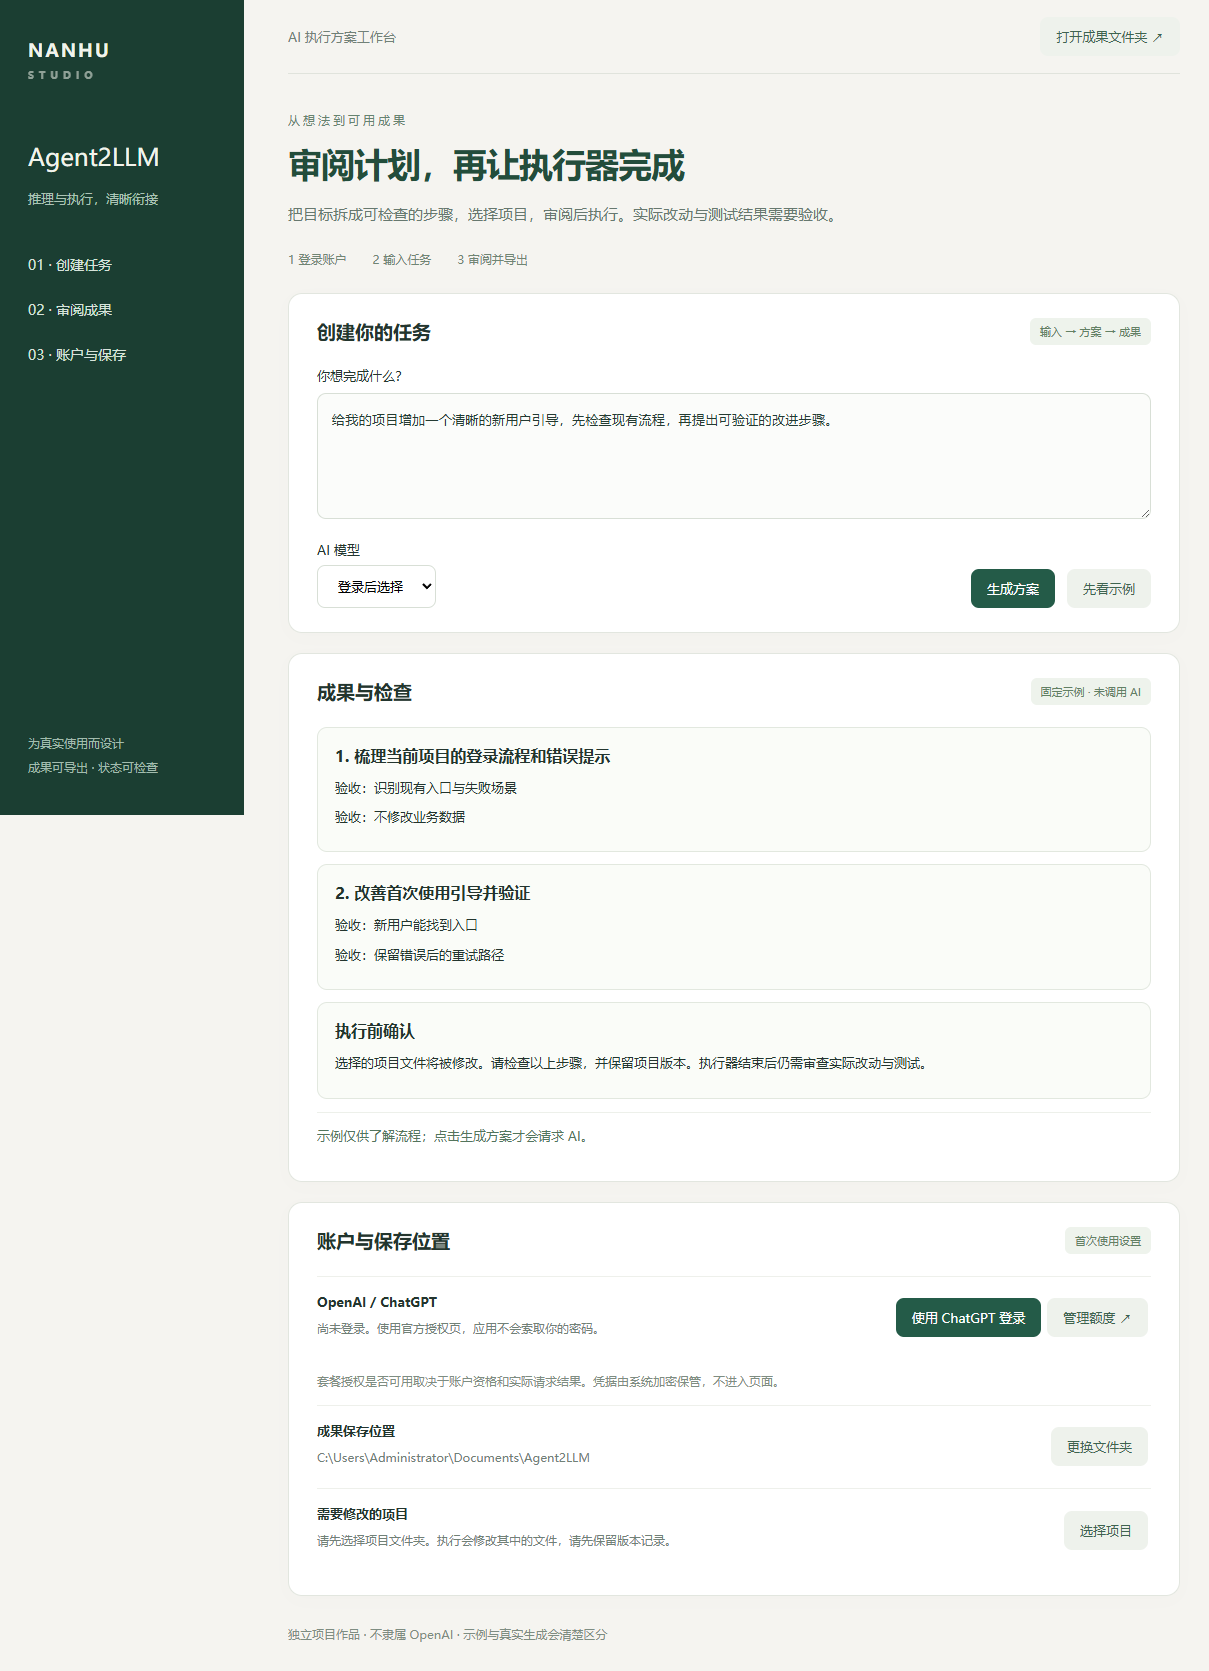
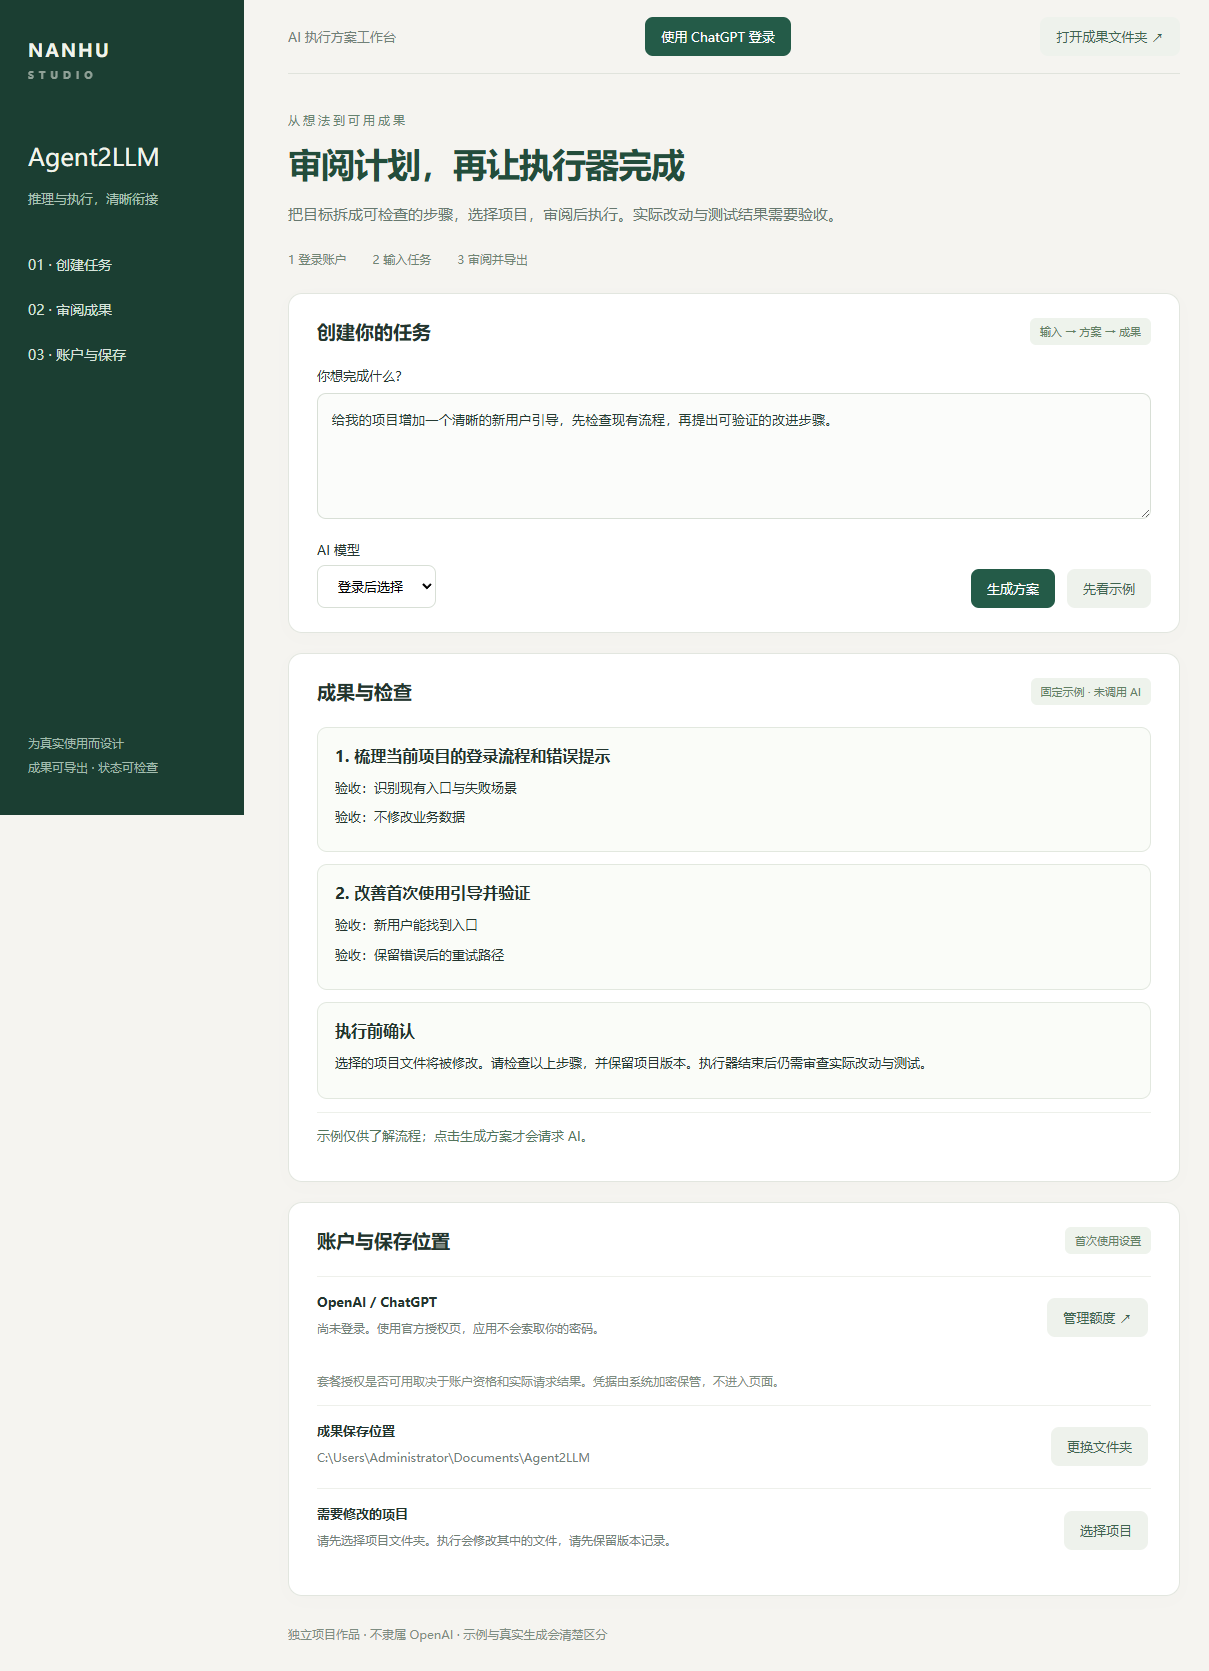
docs: publish product portfolio, quickstart and evidence-based resume

Changed region(s): [[0.5203, 0.0, 0.6733, 0.0311], [0.7345, 0.778, 0.8569, 0.8091]]

diff --git a/docs/QUICKSTART.md b/docs/QUICKSTART.md
@@ -1,0 +1,38 @@
+# Agent2LLM · 三分钟上手
+
+## 下载安装
+
+从 [GitHub Release](https://github.com/nanhudev/agent2llm/releases/tag/desktop-v0.4.0) 下载：
+
+| 你的设备 | 下载文件 |
+|---|---|
+| Windows 64 位 | `agent2llm-0.4.0-Setup-x64.exe` |
+| Windows 免安装体验 | `agent2llm-0.4.0-Portable-x64.exe` |
+| Apple Silicon Mac | `agent2llm-0.4.0-mac-arm64.dmg` |
+
+Windows 安装版支持选择目录；便携版直接双击启动。Mac 打开 DMG，将应用拖到 Applications。目前没有 Intel Mac 安装包。桌面安装包包含运行环境，不需要为了打开界面安装 Node。
+
+## 第一次操作
+
+先打开固定示例，观察步骤和验收条件；此操作不会调用 AI 或修改项目。
+
+选择项目文件夹 → 官方账户授权 → 选择模型 → 输入目标 → 生成步骤 → 审阅步骤 → 确认执行 → 检查项目差异与测试结果。
+
+## 登录与数据
+
+点击“使用 ChatGPT 登录”，在系统浏览器的 OpenAI 官方页面本人完成授权，返回应用选择可用模型。应用不索取其他产品的登录文件；本机登录凭据使用系统加密保存。账号资格、模型权限与额度以官方页面和实际请求为准。
+
+真实 AI 生成会将任务和你提交的原文发送给模型服务；不要输入没有授权处理的内容。固定示例不会请求模型。退出登录会清理授权 Token，保留本应用的客户端注册与账户标识供再次登录。
+
+## 常见问题
+
+| 情况 | 如何处理 |
+|---|---|
+| 尚未登录，生成按钮提示授权 | 完成官方登录，或先查看固定示例 |
+| 授权拒绝、账户无资格或额度不足 | 阅读返回的实际错误；成功打开浏览器或取得模型列表不代表推理已成功 |
+| Windows / macOS 提示来源无法验证 | 当前预览包未签名或公证；校验 Release 的 SHA256SUMS，使用你信任的来源 |
+| 模型输出被校验拒绝 | 检查输入和错误说明后调整任务；应用不会把不完整输出标成成功 |
+| 需要报告问题 | 提交系统、版本、操作步骤、错误文字；不要附账户 Token 或教材隐私内容 |
+
+[更详细的构建与授权说明](DESKTOP.md) · [功能和证据边界](PRODUCT_CASE.md)
+

diff --git a/docs/RESUME.md b/docs/RESUME.md
@@ -1,0 +1,26 @@
+# Agent2LLM · 简历与面试材料
+
+面向 AI 产品经理 / 解决方案岗位。以下描述对应仓库中的实现和验证；根据本人真实参与情况填写职位、日期和职责，不将协助开发的工作写成独立完成。
+
+## 简历项目描述
+
+**Agent2LLM｜AI 产品方案与可用性建设**  
+项目链接：https://github.com/nanhudev/agent2llm/blob/main/docs/PORTFOLIO.md
+
+- 围绕 AI 任务交付设计“规划—审阅—执行—验收”流程，将推理与执行拆分，并增加独立桌面入口、官方账户授权与步骤确认。
+- 建立运行证据比较规则，拒绝不完整或目标不一致的记录，区分提供方报告的 Token、估计量与未知值，避免失真的成本结论。
+- 完成 Windows/macOS 安装包与跨系统验证；核心 CLI 263 项测试通过，桌面打包检查覆盖原生执行器可用性。
+
+## 两分钟演示
+
+演示固定步骤及验收条件；解释为什么用户审阅先于项目修改。若已完成官方账户授权，再在可回滚的示例项目运行真实任务并检查差异。
+
+## 面试可以解释的决策
+
+- 用户的完整任务是：开发者和解决方案交付人员需要把目标交给执行工具，同时知道它执行了什么、结果能否验收。
+- 核心流程是：选择项目文件夹 → 官方账户授权 → 选择模型 → 输入目标 → 生成步骤 → 审阅步骤 → 确认执行 → 检查项目差异与测试结果。
+- 已有证据是：桌面窗口和安装后启动已经验证；核心 CLI 263 项测试通过，Windows/macOS/Linux 的 Node 20/22 检查通过。桌面执行器包含原生 Codex，打包检查实际调用其版本命令。
+- 需要清楚说明：桌面版集成 Codex 执行器；原有 CLI 保留多适配器能力。固定示例不是实际 AI 执行，真实账户生成与项目修改仍待本人授权验收。运行比较要求目标一致、运行完整且有成功回执和测试证据；未知用量保持未知。
+
+真实模型成功率、用户采用率、课堂效果、节省工时与成本没有测量数据，当前不写成业绩数字。263 项测试等数量仅描述测试覆盖，不代表用户效果。
+

diff --git a/docs/PORTFOLIO.md b/docs/PORTFOLIO.md
@@ -1,0 +1,32 @@
+# Agent2LLM · 产品作品集
+
+把复杂目标拆成可审阅的执行步骤，并保留运行证据。
+
+[下载安装包](https://github.com/nanhudev/agent2llm/releases/tag/desktop-v0.4.0) · [三分钟上手](QUICKSTART.md) · [产品案例](PRODUCT_CASE.md) · [简历与面试材料](RESUME.md) · [源代码](https://github.com/nanhudev/agent2llm)
+
+![真实桌面界面](assets/desktop.png)
+
+## 用户任务
+
+开发者和解决方案交付人员需要把目标交给执行工具，同时知道它执行了什么、结果能否验收。
+
+## 实际使用流程
+
+选择项目文件夹 → 官方账户授权 → 选择模型 → 输入目标 → 生成步骤 → 审阅步骤 → 确认执行 → 检查项目差异与测试结果。
+
+## 已有证据
+
+桌面窗口和安装后启动已经验证；核心 CLI 263 项测试通过，Windows/macOS/Linux 的 Node 20/22 检查通过。桌面执行器包含原生 Codex，打包检查实际调用其版本命令。
+
+具体测试与实现可在仓库的测试目录、GitHub Actions 及产品案例中审阅。固定配方与固定示例均明确标识，不能当作真实模型请求。
+
+## 当前范围
+
+桌面版集成 Codex 执行器；原有 CLI 保留多适配器能力。固定示例不是实际 AI 执行，真实账户生成与项目修改仍待本人授权验收。运行比较要求目标一致、运行完整且有成功回执和测试证据；未知用量保持未知。
+
+当前桌面版本为 0.4.0 预览版，Windows x64 与 Mac Apple Silicon。安装包未商业签名或 Apple 公证；Mac 已在原生 CI 打包并检查应用窗口，尚未在使用者的 Mac 上手动安装验收。账户资格与额度以官方授权和实际请求为准。
+
+## 产品评价计划
+
+记录首次有效成果的完成时间、失败恢复情况与人工复核原因。引入实际用户后再报告采用率、成本或效率变化；本仓库没有把计划指标写成已经发生的收益。
+

diff --git a/docs/PRODUCT_CASE.md b/docs/PRODUCT_CASE.md
@@ -17,3 +17,26 @@
 ![实际桌面界面](assets/desktop.png)
 
 [桌面使用与构建](DESKTOP.md)
+
+## 方案选择
+
+| 候选方案 | 本版选择 | 对用户任务的影响 |
+|---|---|---|
+| 自动执行全部步骤 | 用户审阅后执行 | 项目修改前可看清动作与验收要求 |
+| 完成日志直接视为成功 | 执行结束与用户验收分开 | 命令退出成功不保证业务结果正确 |
+| 按输入字节宣称 Token 节省 | 区分实际用量、估计量与未知 | 避免把传输量变成未经测量的成本收益 |
+
+## 评价口径与发布门槛
+
+以下是待收集的产品指标，不是已经取得的成绩。
+
+| 指标 | 测量方式 | 当前证据 |
+|---|---|---|
+| 首次有效成果时间 | 从打开应用到成果通过检查，失败任务单独计入 | 未收集真实用户样本 |
+| 任务通过率 | 通过预先约定验收的任务数 / 尝试任务数，按任务类型区分 | 仅有测试场景，不能外推 |
+| 恢复能力 | 按授权、生成、执行、导出记录失败原因与重试结果 | 已有相应软件边界检查 |
+| 人工复核负担 | 记录每次复核耗时和修改原因，与同任务原流程比较 | 未收集真实用户基线 |
+
+下一步先用本人官方账户完成真实请求，再邀请目标用户完成典型任务并观察失败点；得到记录后再决定扩展范围。不会用模型列表、模拟任务或安装成功代替真实 AI 和用户效果验证。
+
+[下载安装与三分钟上手](QUICKSTART.md) · [简历与面试描述](RESUME.md) · [作品集入口](PORTFOLIO.md)

diff --git a/docs/DESKTOP.md b/docs/DESKTOP.md
@@ -1,6 +1,6 @@
 # Agent2LLM 桌面版
 
-Windows 安装包：`desktop/dist/*-Setup-x64.exe`。便携包：`desktop/dist/*-Portable-x64.exe`。构建输出不进入 Git；GitHub Actions 的 Desktop installers 构建保存为下载附件。
+Windows 安装包：`desktop/dist/*-Setup-x64.exe`。便携包：`desktop/dist/*-Portable-x64.exe`。构建输出不进入 Git；[公开安装包](https://github.com/nanhudev/agent2llm/releases/tag/desktop-v0.4.0)提供 Windows x64 和 Apple Silicon Mac 预览版本，附 SHA256SUMS。[三分钟上手](QUICKSTART.md)适用于非开发者。
 
 1. 打开应用，先看固定示例了解操作。
 2. 在“账户与保存位置”使用 ChatGPT 登录，在 OpenAI 官方页面完成授权。
